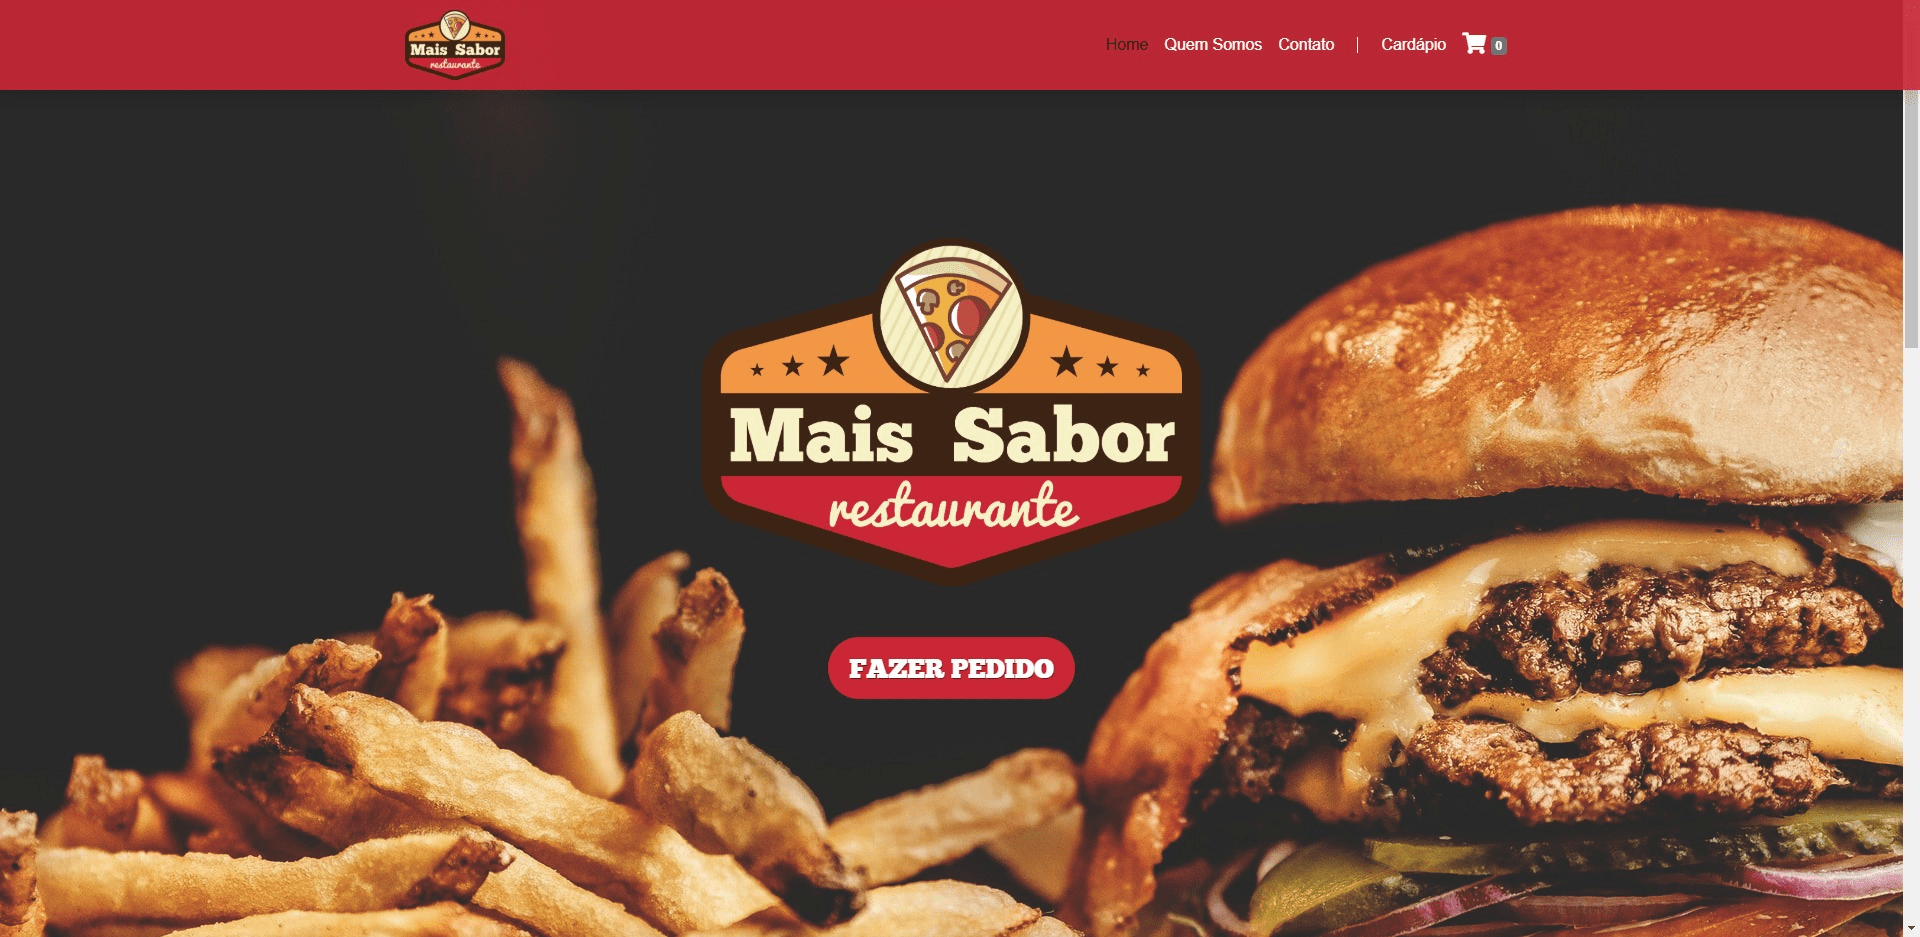
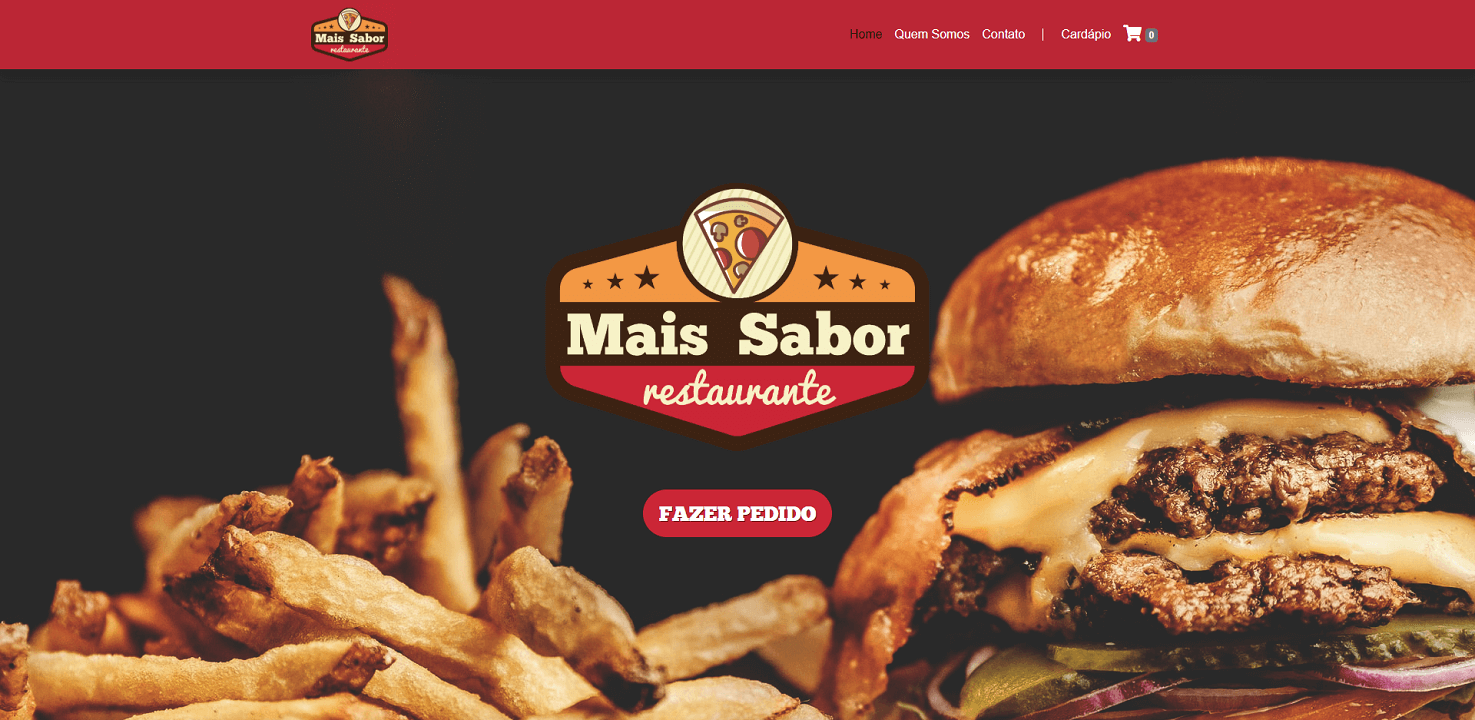
tamanho da screenshot reduzido

diff --git a/README.md b/README.md
@@ -1,6 +1,6 @@
-<h1 align="center">
-    <img src="public/images/screenshot.png">
-</h1>
+## Prévia
+
+<img src="public/images/screenshot.png">
 
 # ps_visao_tcc 🍕🍔
 Projeto realizado no processo seletivo da Visão Tecnologia e Sistemas (2020).
